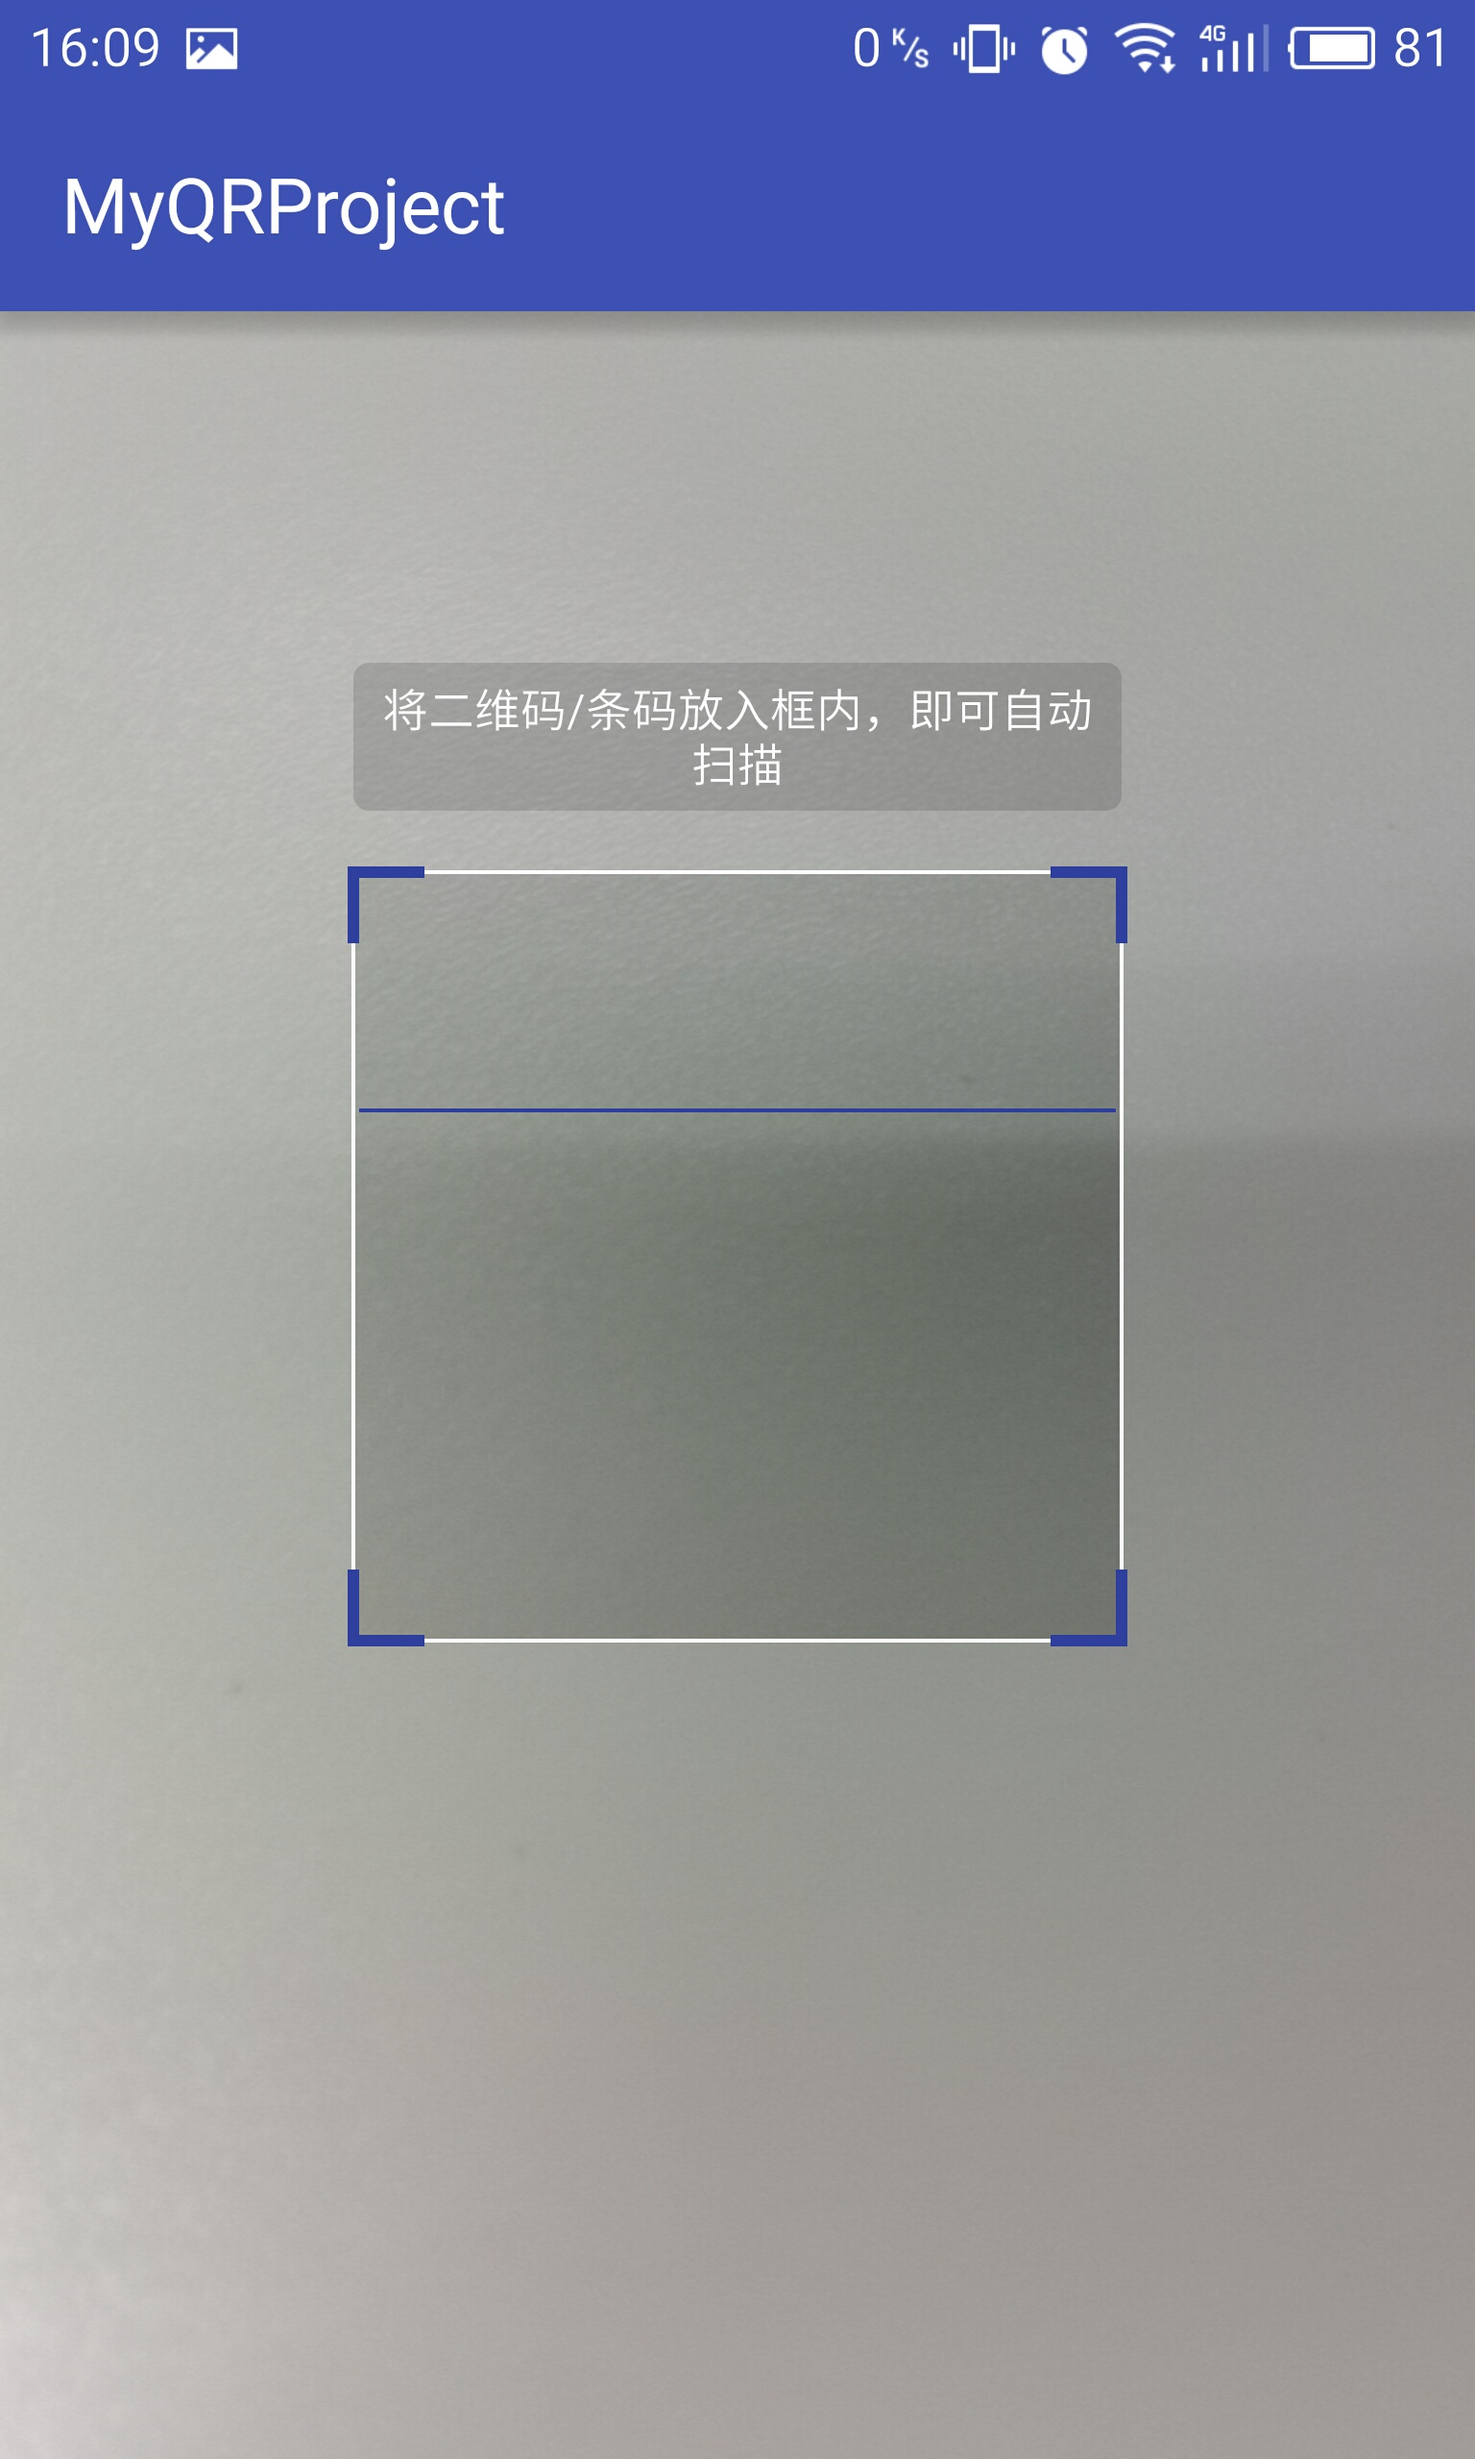
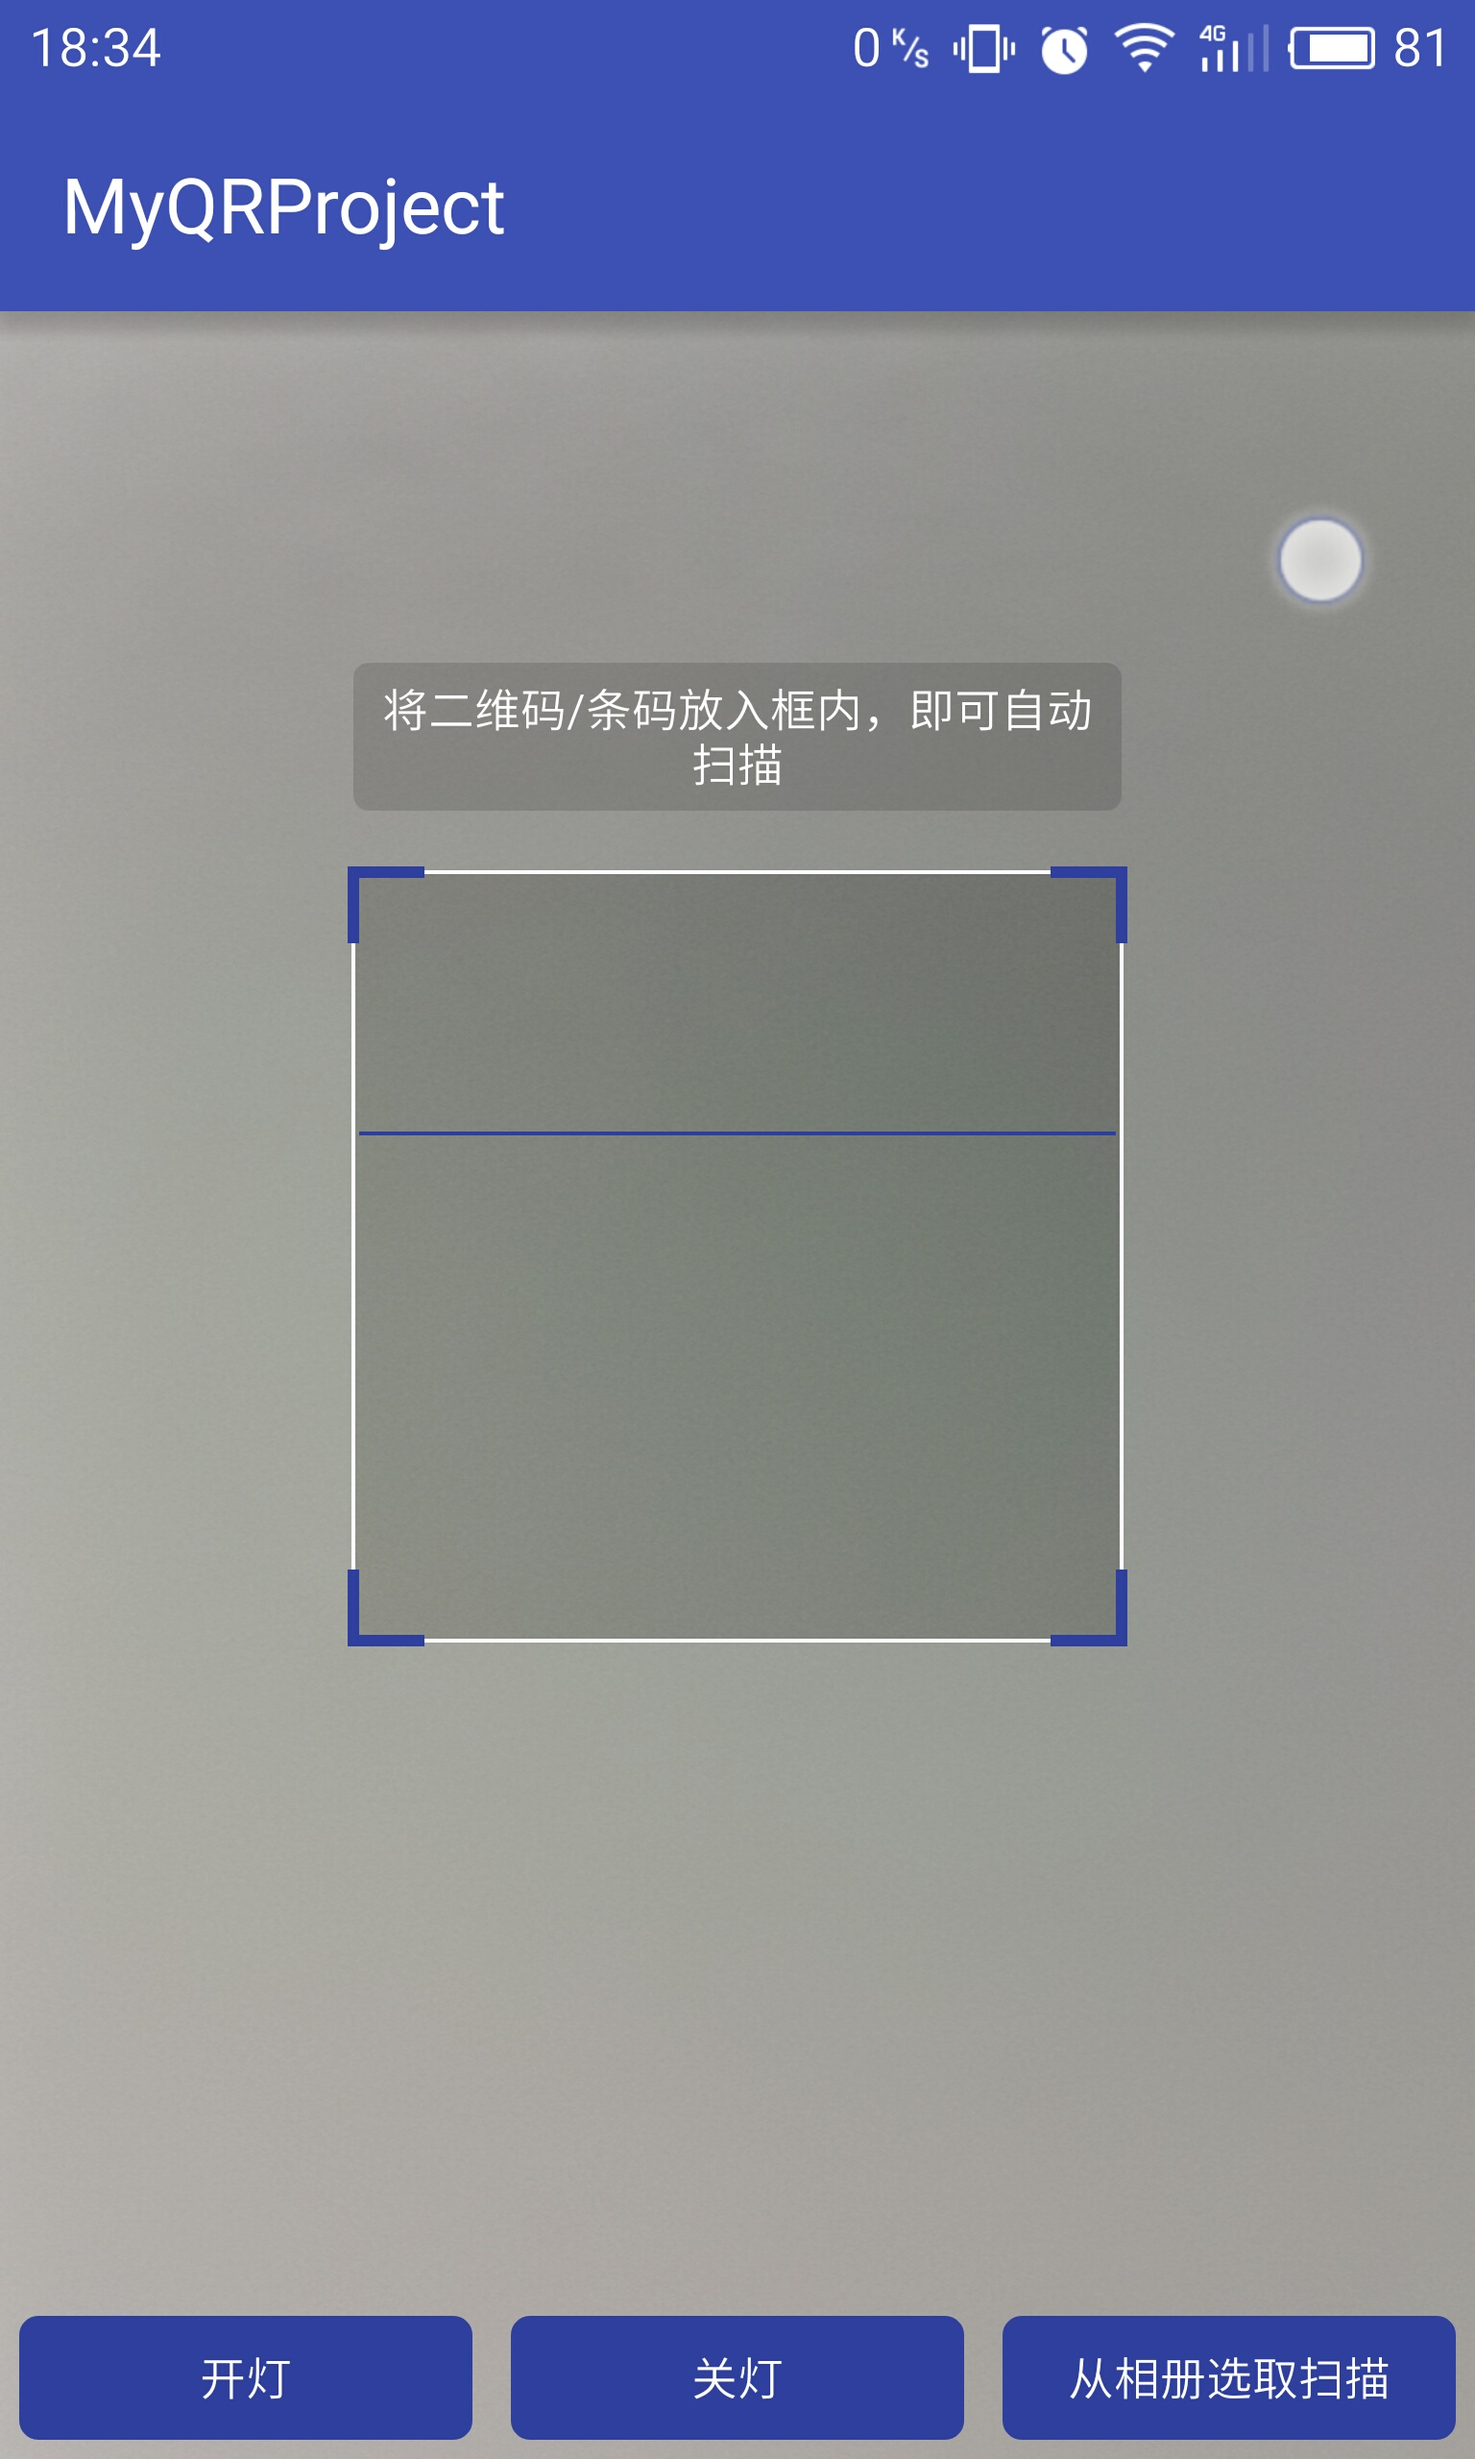
add flashlight and select_from_gallery

Changed region(s): [[0.0, 0.125, 1.0, 0.4688], [0.0, 0.875, 1.0, 1.0], [0.0312, 0.0, 0.1562, 0.0312]]

diff --git a/app/src/main/java/com/example/cogito/myqrproject/QRScan.java b/app/src/main/java/com/example/cogito/myqrproject/QRScan.java
@@ -10,6 +10,7 @@ import android.provider.MediaStore;
 import android.support.v7.app.AppCompatActivity;
 import android.os.Bundle;
 import android.util.Log;
+import android.view.View;
 import android.widget.Toast;
 
 import org.chzz.qrcode.core.QRCodeView;
@@ -20,6 +21,7 @@ import java.io.File;
 
 public class QRScan extends AppCompatActivity implements QRCodeView.Delegate {
     private static final String TAG = QRScan.class.getSimpleName();
+    private static final int REQUEST_CODE_CHOOSE_QRCODE_FROM_GALLERY = 666;
     private QRCodeView mQRCodeView;
 
     @Override
@@ -71,11 +73,60 @@ public class QRScan extends AppCompatActivity implements QRCodeView.Delegate {
         Log.e(TAG, "打开相机出错");
     }
 
+    public void onClick(View v) {
+        switch (v.getId()) {
+            case R.id.open_flashlight:
+                mQRCodeView.openFlashlight();
+                break;
+            case R.id.close_flashlight:
+                mQRCodeView.closeFlashlight();
+                break;
+            case R.id.choose_qrcde_from_gallery:
+                startActivityForResult(new Intent(Intent.ACTION_PICK, MediaStore.Images.Media.EXTERNAL_CONTENT_URI), REQUEST_CODE_CHOOSE_QRCODE_FROM_GALLERY);
+                break;
+        }
+    }
+
     @Override
     protected void onActivityResult(int requestCode, int resultCode, Intent data) {
         super.onActivityResult(requestCode, resultCode, data);
 
         mQRCodeView.showScanRect();
+        if (requestCode == REQUEST_CODE_CHOOSE_QRCODE_FROM_GALLERY && resultCode == Activity.RESULT_OK && null != data) {
+            String picturePath;
+            try {
+                Uri selectedImage = data.getData();
+                String[] filePathColumns = {MediaStore.Images.Media.DATA};
+                Cursor c = getContentResolver().query(selectedImage, filePathColumns, null, null, null);
+                c.moveToFirst();
+                int columnIndex = c.getColumnIndex(filePathColumns[0]);
+                picturePath = c.getString(columnIndex);
+                c.close();
+            } catch (Exception e) {
+                picturePath = data.getData().getPath();
+            }
 
+            if (new File(picturePath).exists()) {
+                QRCodeDecoder.decodeQRCode(BitmapFactory.decodeFile(picturePath), new QRCodeDecoder.Delegate() {
+                    @Override
+                    public void onDecodeQRCodeSuccess(String result) {
+                        Toast.makeText(QRScan.this, result, Toast.LENGTH_SHORT).show();
+                        Intent intent = new Intent();
+                        intent.putExtra("qrcontent",result);
+                        setResult(RESULT_OK,intent);
+                        finish();
+                    }
+
+                    @Override
+                    public void onDecodeQRCodeFailure() {
+                        Toast.makeText(QRScan.this, "未发现二维码", Toast.LENGTH_SHORT).show();
+                        Intent intent = new Intent();
+                        intent.putExtra("qrcontent","未发现二维码");
+                        setResult(RESULT_OK,intent);
+                        finish();
+                    }
+                });
+            }
+        }
     }
 }
